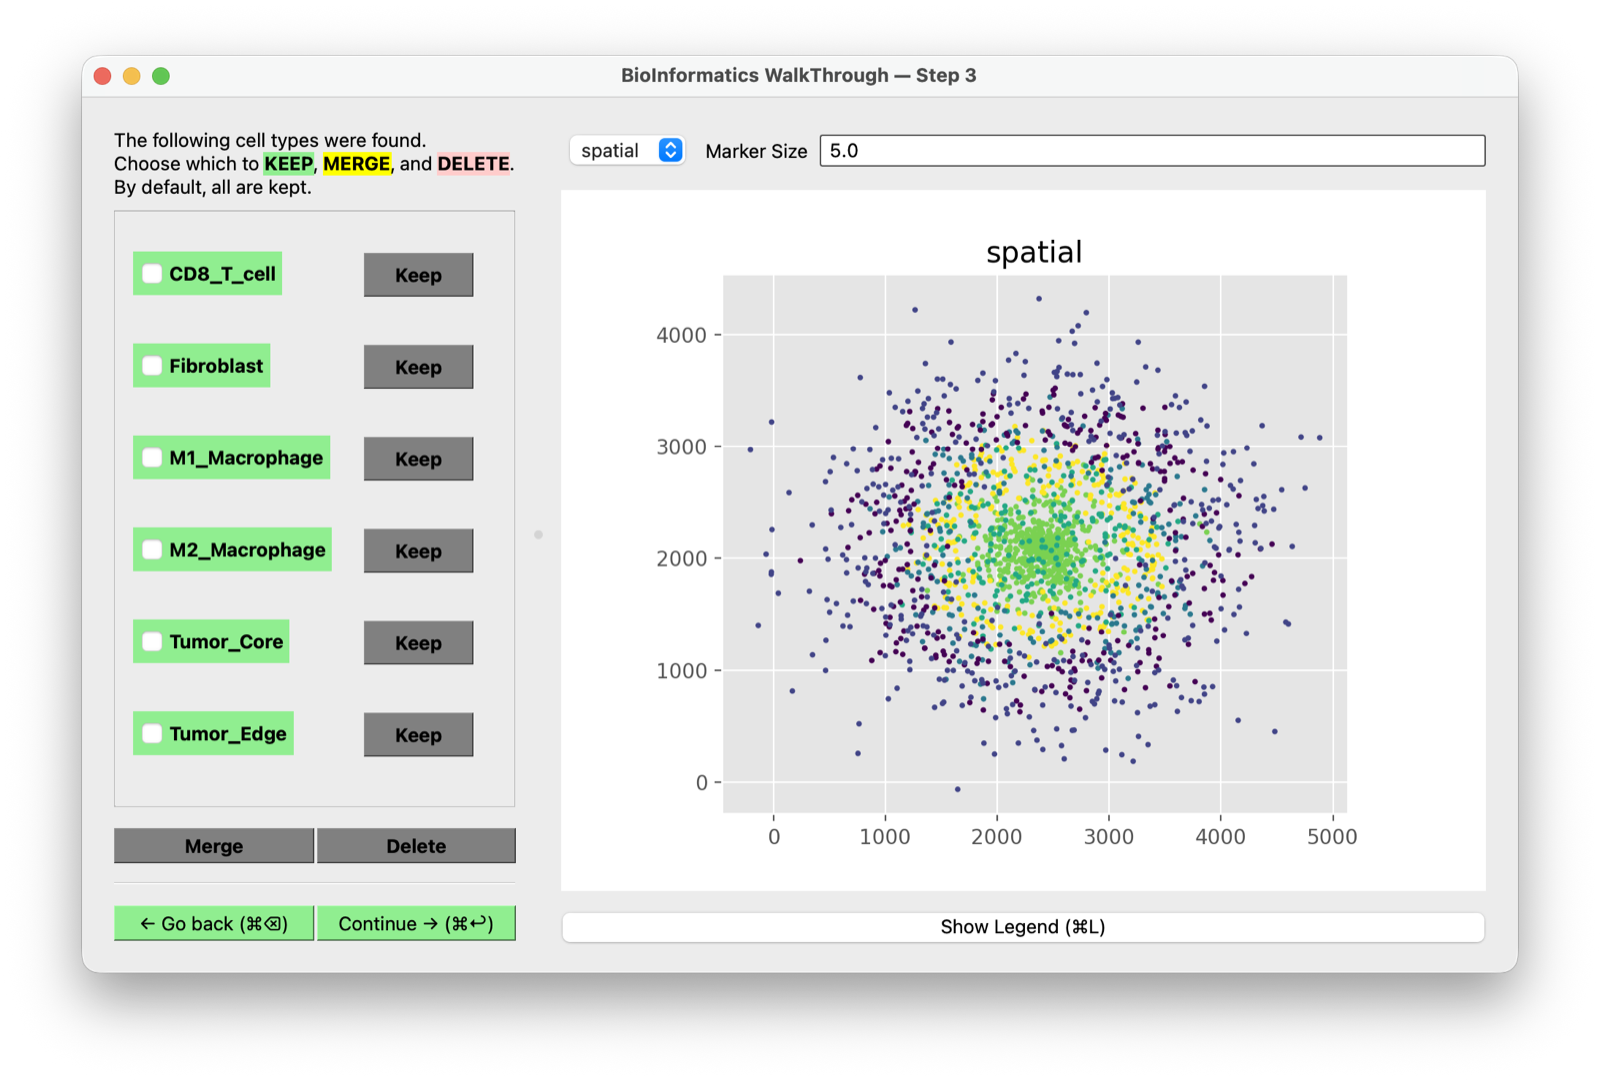
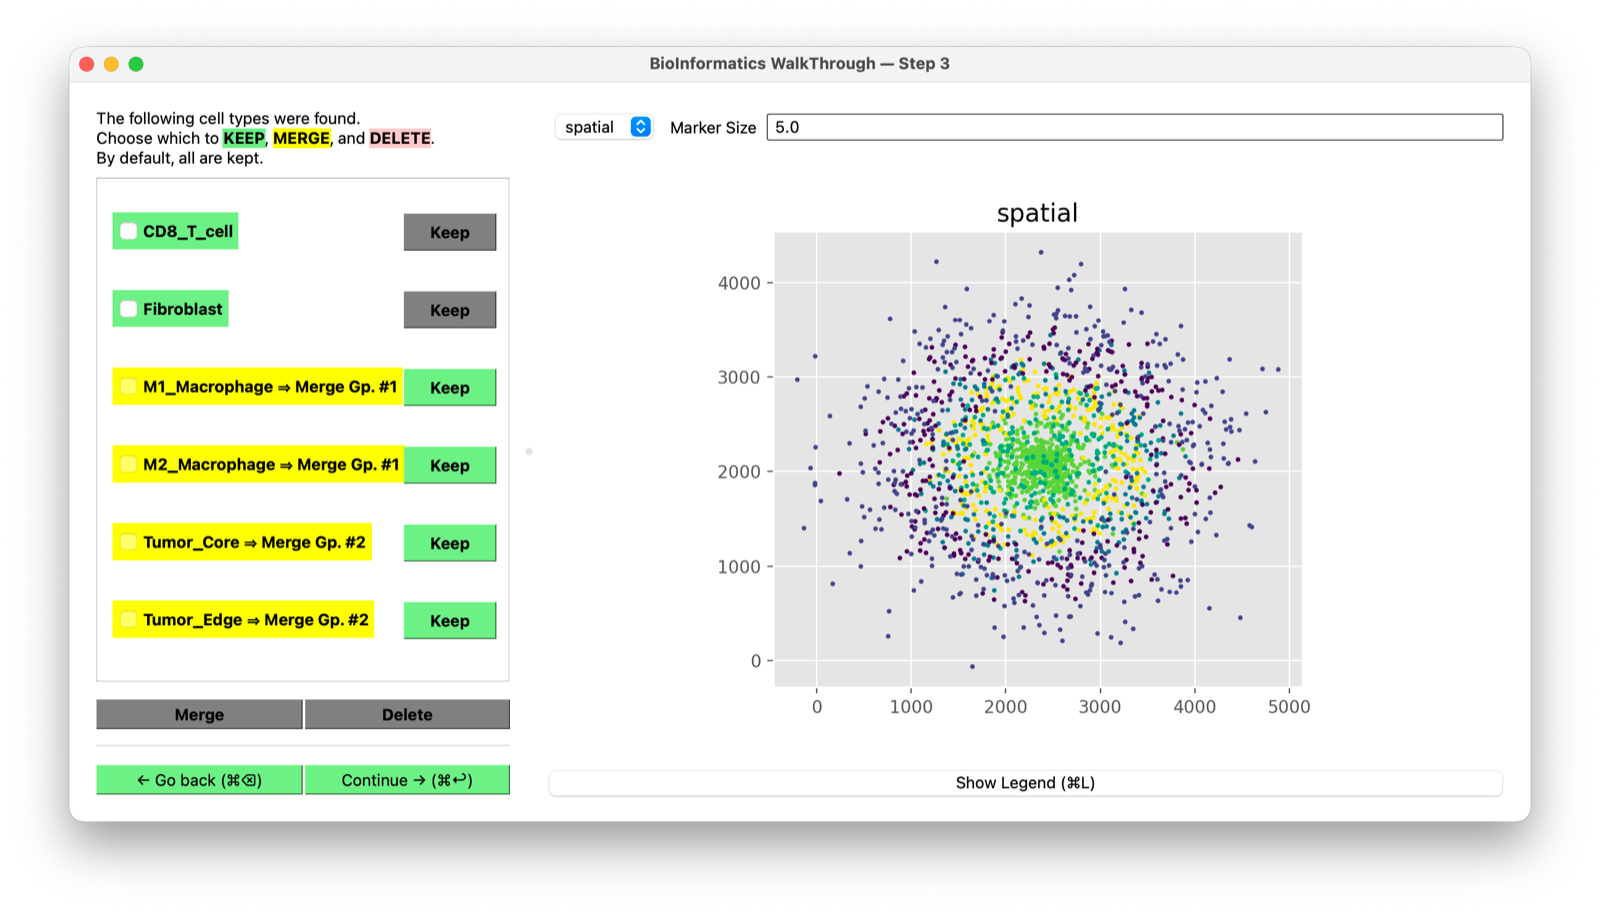
Reshoot the last two screenshots
edit-cell-types was the one screen not retaken for 0.5.0; import gets the
title bar the launcher fix restored. Same normalization: 2592 -> 1600 for
edit-cell-types (-41%), profile conversion only for import, which is under
the cap.

Also records why cell-counts-confluence is committed at 1604, over the cap:
trimming four pixels re-encoded it 296K -> 349K, so the cap is worth applying
to a real overshoot and not a marginal one. Without the note a later pass
would "fix" it into being larger.

diff --git a/progress.md b/progress.md
@@ -827,6 +827,14 @@ the new 1582×1016 domain screenshot went to 1600×1027 and **338 KB → 405 KB*
 with the text interpolated and softened. Only run it on captures wider than
 1600.
 
+**A marginal overshoot is not worth the cap either.** The same re-encode that
+inflates an under-cap image also inflates one barely over it, and there is no
+pixel saving to pay for it: `cell-counts-confluence` at 1604×808 went **296 KB
+→ 349 KB** for a four-pixel trim, text interpolated. It is committed at its
+native 1604 and will read as over the cap to anything that checks — that is
+deliberate. The cap earns its keep on a real overshoot, where the two positions
+captures came down 38% and 41% from 2528.
+
 For a capture already under the cap, the win is metadata, not pixels. A raw
 `screencapture` PNG carries a ~3 KB Display-P3 ICC profile plus `cICP`, `eXIf`,
 `pHYs`, an XMP packet and Apple's `iDOT` chunk, and writes IDAT in 16 KB pieces.
